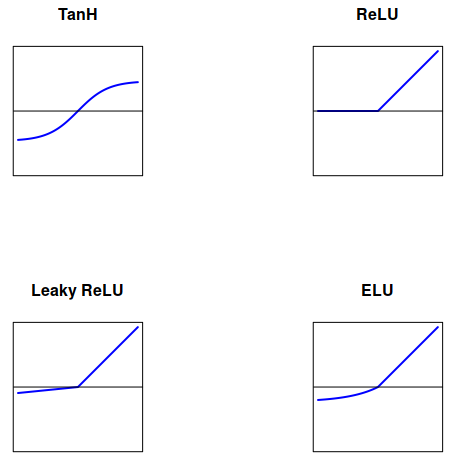
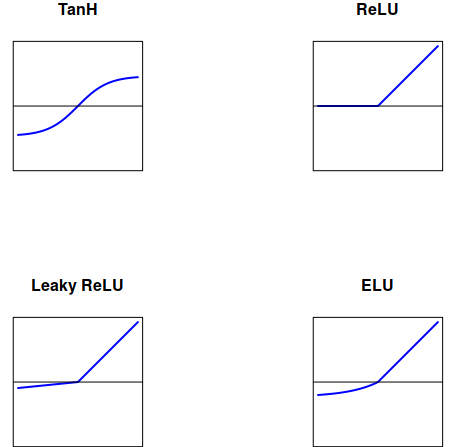
Explained some activation functions

diff --git a/doc/Chapters/Chapter02.tex b/doc/Chapters/Chapter02.tex
@@ -52,6 +52,38 @@
 
     The above procedure is repeated until the model's performance is adequate. If we wish to speed it up with a reasonable tradeoff in quality, we can use not the whole training set for each iteration but smaller subsets called \textit{batches} (\textit{Stochastic Gradient Descent}). This allows us to maintain enough generalization while at the same time reducing the cost of gradient computation \cite{lecun-dl}.
 
+    A problem related to backpropagation is the \textit{vanishing gradient}, which only occurs in the training stage of neural networks. Because of the chain rule used to propagate the error through the layers, if the activation function has a near-zero derivative at some points, the gradient will approach that value too. In worst-case scenarios, it results in a practical standstill of the training.
+
+    Multiple solutions have been proposed in the past few years, and research on the topic is still ongoing. A few popular activation functions as of now include:
+
+    \begin{itemize}
+
+    	\item
+    	\textit{Hyperbolic tangent}: the classic, due to it being bounded, which increases the efficiency of the training. However, its shape at both ends produces the vanishingly small gradients.
+
+    	\item
+    	\textit{\ac{ReLU}}: defined by $f(x) = 0$ if $x \leq 0$ and $f(x) = x$ if $x > 0$. It avoids small gradients for high input values and makes networks sparser with its negative part (accounting again for more efficiency). The downside is the \textit{dying} \acs{ReLU}, in which some neurons become perpetually inactive.
+
+    	\item
+    	\textit{Leaky \acs{ReLU}}: one of the variants of \acs{ReLU} that tries to avoid inactive neurons by setting $f(x)$ for negative $x$ to $0.01x$ instead of $0$. Its generalization is the \textit{Parameterized ReLU}.
+
+    	\item
+    	\textit{\ac{ELU}} \cite{elu}: another recent alternative that replaces the horizontal section of the \acs{ReLU} with an exponential function.
+
+    \end{itemize}
+
+    These functions can be observed in the following figure:
+
+    \vspace{0.2cm}
+
+    \begin{figure}[bth]
+
+        \myfloatalign
+        \includegraphics[width=0.7\textwidth]{gfx/ActivationFunctions.png}
+        \caption{Four of the most popular activation functions.}
+
+    \end{figure}
+
     In general, as the complexity of a model grows, so does the difficulty of its training. Neural networks are, in theory, capable of approximating every possible function, and this comes at a price: some of the following common issues in machine learning \cite{nn-atc} have increased consequences.
 
     \begin{itemize}
@@ -66,8 +98,8 @@
     	Incomplete data: this is the case when the available samples have missing values. In this situation there are two options: either we discard incomplete fields from across all samples or we try to infer them.
 
     	\item
-    	High dimensionality: linking with the first bullet point, powerful models can suffer of \textit{overfitting} with limited and/or high-dimensional samples. The latter can cause the model to just learn the available data ``by heart'' and fail to generalize to new examples.
+    	High dimensionality: linking with the first bullet point, powerful models can suffer of \textit{overfitting} with limited and/or high-dimensional samples. The latter can cause the model to just learn the available data ``by heart'' and fail to generalize to new examples. Even leaving extreme cases aside, the number of features directly impacts the time required for training.
 
     \end{itemize}
 
-    Another problem is the \textit{vanishing gradient}, which occurs only in the training stage of neural networks. Because of the chain rule used to propagate the error through the layers, if the activation function provides many values close to zero, the gradient will approach that value too. In worst-case scenarios, it results in a practical standstill of the training. Plausible solutions to this matter, which has been a major deterrent against deep architectures for a long time, include the use of alternative activation functions (such as \textit{ReLU} and its variants, very popular in recent years \cite{delv-deep-relu,deep-res-relu}).
+    

diff --git a/doc/Thesis.tex b/doc/Thesis.tex
@@ -76,7 +76,7 @@
 	\pagestyle{scrheadings}
 	\pagenumbering{arabic}
 	\cleardoublepage
-	\ctparttext{\centering\textit{``What do all these exotic terms mean?''}}
+	\ctparttext{\centering\textit{``What do all these exotic words mean?''}}
 	\part{Introduction}\label{pt:introduction}
 	\include{Chapters/Chapter01}
 	\include{Chapters/Chapter02}

diff --git a/doc/FrontBackmatter/Contents.tex b/doc/FrontBackmatter/Contents.tex
@@ -66,6 +66,8 @@
     	\acro{ECoG}{Electrocorticography}
     	\acro{ANN}{Artificial Neural Networks}
     	\acro{EA}{Evolutionary Algorithms}
+    	\acro{ReLU}{Rectifier Linear Unit}
+    	\acro{ELU}{Exponential Linear Unit}
     \end{acronym}
 
 \endgroup 
